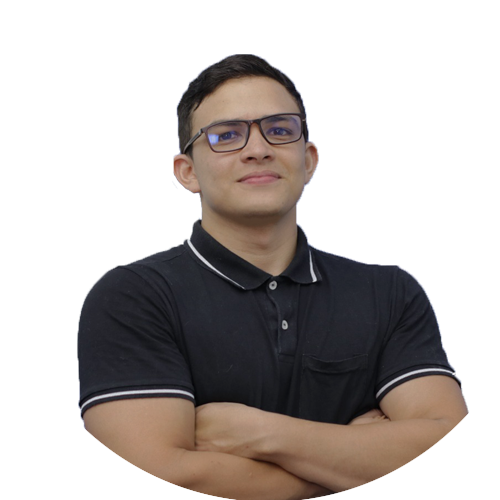
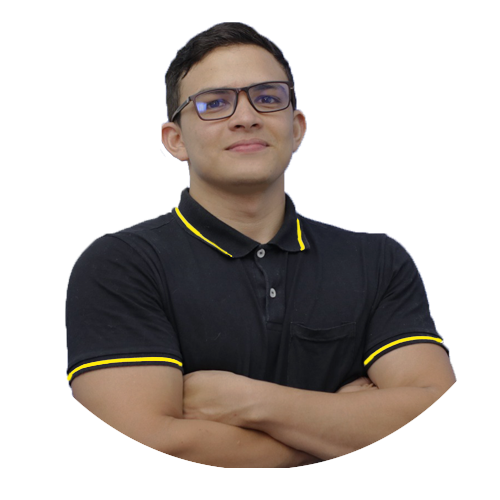
Home-Finish

Changed region(s): [[0.12, 0.03, 0.96, 1.0], [0.54, 0.63, 0.6, 0.66], [0.54, 0.69, 0.57, 0.72]]

diff --git a/app/services/page.jsx b/app/services/page.jsx
@@ -1,8 +1,56 @@
-import React from 'react'
+"use client"
+
+import {BsArrowDownRight} from "react-icons/bs"
+import Link from "next/link";
+import { motion } from "framer-motion";
+
+const services=[
+ {
+    num:"01",
+    title: "Desenvolvedor Web",
+    description:"Utilizando tanto as tecnologias mais basicas como HTML e CSS, mas tambem utilizando REACT e suas libs",
+    href:"",
+ },
+ {
+    num:"02",
+    title: "Desenvolvedor Mobile",
+    description:"Utilizando tanto as tecnologias mais basicas como HTML e CSS, mas tambem utilizando REACT e suas libs",
+    href:"",
+ },
+ {
+    num:"03",
+    title: "Desenvolvedor de Games",
+    description:"Utilizando tanto as tecnologias mais basicas como HTML e CSS, mas tambem utilizando REACT e suas libs",
+    href:"",
+ },
+
+]
+
 
 const Services = () => {
   return (
-    <div>Services Page</div>
+    
+    <section className="min-h-[80vh] flex flex-col justify-center py-12 xl:py-0 ">
+      <div>
+        <motion.div initial={{opacity:0}} animate={{opacity:1,transition:{delay:2.4,duration:0.4,ease:"easeIn"}}} className="grid grid-cols-1 md:grid-cols-2  gap-[60px]">
+         {services.map((service,index)=>{
+          return (
+            <div key={index} className="felx-1 flex flex-col justify-center gap-6 group" >
+                  <div className="w-full flex justify-between items-center">
+                    <div className="text-5xl font-extrabold text-outline text-transparent">{service.num}</div>
+                    <Link href={service.href}>
+                    <BsArrowDownRight/>
+                    </Link>
+                  </div>
+                  <h2>{service.title}</h2>
+                  <p>{service.description}</p>
+                  <div className="border-b border-white/20 w-full " ></div>
+            </div>
+          )
+         })}
+        </motion.div>
+      </div>
+    </section>
   )
 }
 

diff --git a/components/Photo.jsx b/components/Photo.jsx
@@ -8,15 +8,34 @@
 const Photo = () => {
   return (
     <div className="w-full h-full relative">
-        <motion.div initial={{opacity:0}} animate={{opacity:1,transition:{delay: 1.4,duration:0.4,ease:"easeInOut"}}} > 
+        <motion.div initial={{opacity:0}} animate={{opacity:1,transition:{delay: 1.4,duration:0.4,ease:"easeIn"}}} > 
 
-            <motion.div className="w-[298px] h-[298px] xl:h-[498px]  xl:w-[498px]  mix-blend-lighten" >
+            <motion.div 
+            initial={{opacity:0}} animate={{ opacity:1,transition: {delay:2.4,duration:0.4, ease:"easeInOut"}}} className="w-[298px] h-[298px] xl:w-[498px] xl:h-[498px] mix-blend-lighten absolute" >
+
                 <Image src={ImagePerfil}  priority quality={100} fill alt="image" className="object-contain" />
+
             </motion.div>
+
+            <motion.svg className=" w-[300px] xl:w-[506px] h-[300px]  xl:h-[506px] " fill="transparent" viewBox="0 0 506 506" xmlns="http://www.w3.org/2000/svg" >
+            
+             <motion.circle cx="253" cy="253"  r="250" stroke="#FFEC0A" strokeWidth="4" strokeLinecap="round" strokeLinejoin="round" initial={{strokeDasharray:" 24 10 0 0"}}  
+             animate={{
+              strokeDasharray: ["15 120 25 25","16 25 92 72","4 250 22 22"],
+              rotate:[120,360]
+              }} 
+              transition={{
+                duration:20,
+                repeat:Infinity,
+                repeatType:"reverse"
+              }}
+              />
+
+            </motion.svg>
 
         </motion.div>
     </div>
-  )
+  );
 }
 
 export default Photo

diff --git a/components/Stats.jsx b/components/Stats.jsx
@@ -1,0 +1,49 @@
+"use client";
+
+import CountUp from "react-countup";
+
+const stats = [
+    {
+        num:5,
+        text: "Anos de Experiencia"
+    },
+    {
+        num:8,
+        text: "Projetos Completos"
+    },
+    {
+        num:4,
+        text: "Pós Graduções"
+    },
+    {
+        num:326,
+        text: "Code Commits"
+    },
+]
+
+const Stats = () => {
+  return (
+    <section className="pt-4 pb-12 xl:pt-0 xl:pb-0">
+        <div className="container mx-auto">
+            <div className="flex flex-wrap gap-6 max-w-[80vw] mx-auto xl:max-w-none ">
+                {stats.map((item,index)=>{
+                    return(
+
+                        <div className={` flex-1 flex gap-4 items-center justify-center xl:justify-start`}
+                         key={index}>
+
+                           <CountUp end={item.num} duration={5} delay={2} className= "text-4xl xl:text-6xl font-extrabold" />
+                           <p className={`${item.text.length < 15 ? "max-w-[100px]": "max-w-[150px]"} leading-snug text-white/80 `}>{item.text}</p>
+                        </div>
+                    )
+                })}
+            </div>
+            
+        </div>
+    </section>
+  )
+}
+
+
+
+export default Stats

diff --git a/components/nav.jsx b/components/nav.jsx
@@ -5,26 +5,26 @@ import  {usePathname} from "next/navigation";
 
 const links = [
     {
-        name:"home",
-        path:"/"
+      name:'home',
+      path:"/",
     },
     {
-        name:"services",
-        path:"/services"
+      name:'serviços',
+      path:"/services",
     },
     {
-        name:"work",
-        path:"/work"
+      name:'resumo',
+      path:"/resume",
     },
     {
-        name:"resume",
-        path:"/resume"
+      name:'portifólio',
+      path:"/work",
     },
     {
-        name:"contact",
-        path:"/contact"
+      name:'contato',
+      path:"/contact",
     },
-]
+  ]
 
 const Nav = () => {
     const pathname = usePathname();

diff --git a/app/page.jsx b/app/page.jsx
@@ -2,6 +2,7 @@ import Social from "@/components/Social";
 import { Button } from "@/components/ui/button"
 import { FiDownload } from 'react-icons/fi';
 import Photo from "@/components/Photo"
+import Stats from "@/components/Stats";
 
 const Home = () => {
   return (
@@ -38,6 +39,7 @@ const Home = () => {
            </div>
           </div>
       </div>
+      <Stats/>
     </section>
   )
 }

diff --git a/components/MobiNav.jsx b/components/MobiNav.jsx
@@ -12,19 +12,19 @@ const links =[
     path:"/",
   },
   {
-    name:'services',
+    name:'serviços',
     path:"/services",
   },
   {
-    name:'resume',
+    name:'resumo',
     path:"/resume",
   },
   {
-    name:'work',
+    name:'portifólio',
     path:"/work",
   },
   {
-    name:'contact',
+    name:'contato',
     path:"/contact",
   },
 ]

diff --git a/app/layout.jsx b/app/layout.jsx
@@ -13,8 +13,8 @@ const jetbrainsMono = JetBrains_Mono ({subsets:
 })
 
 export const metadata = {
-  title: "Create Next App",
-  description: "Generated by create next app",
+  title: "Massan.code",
+  description: "Pronto para tudo!",
 };
 
 export default function RootLayout({ children }) {

diff --git a/components/header.jsx b/components/header.jsx
@@ -20,7 +20,7 @@ const Header = () => {
          <div className="hidden xl:flex items-center gap-8">
            <Nav/>  
           <Link href={'/contact'}>
-              <Button> Hire me </Button>
+              <Button> Contrate-me</Button>
            </Link>
          </div>
        

diff --git a/app/globals.css b/app/globals.css
@@ -17,5 +17,13 @@
  .h3{
     @apply text-[20px] xl:text-[24px] leading-[1.1] font-semibold;
  }
+ 
+}
 
+.text-outline{
+   -webkit-text-stroke: 1px #ffffff;
+}
+
+.text-outline-hover{
+   -webkit-text-stroke: 1px #FFEC0A;
 }
